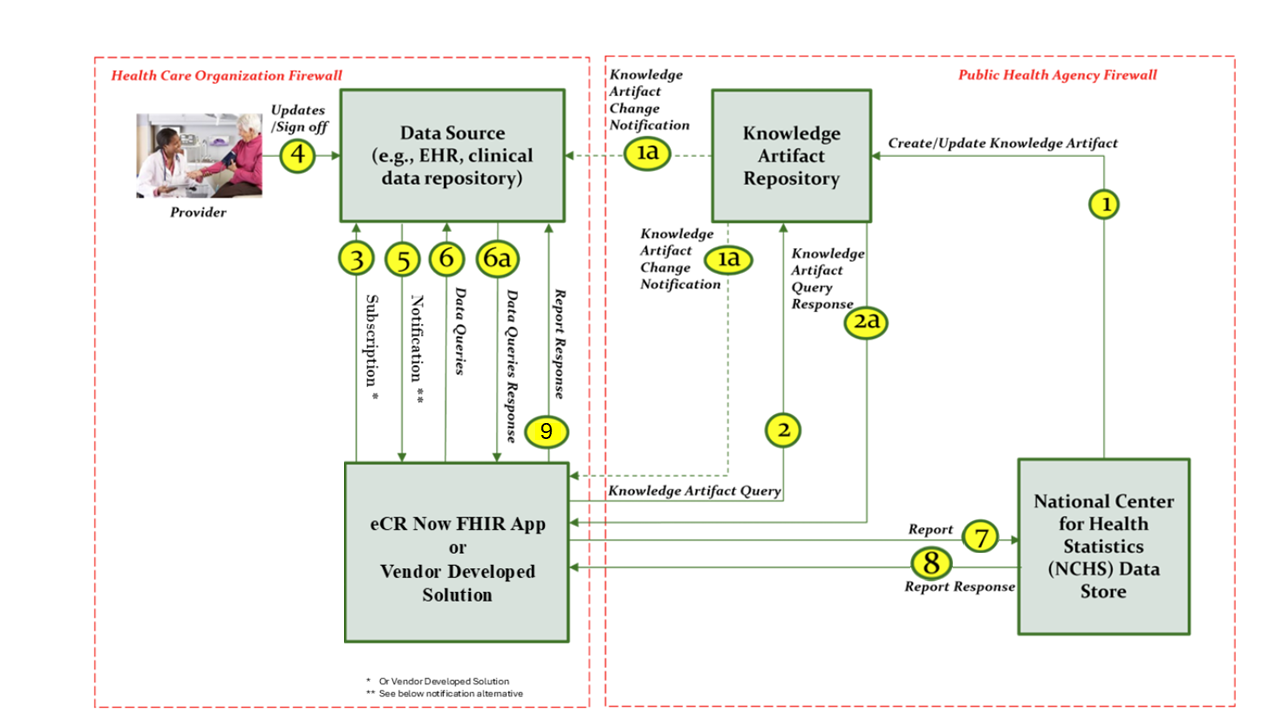
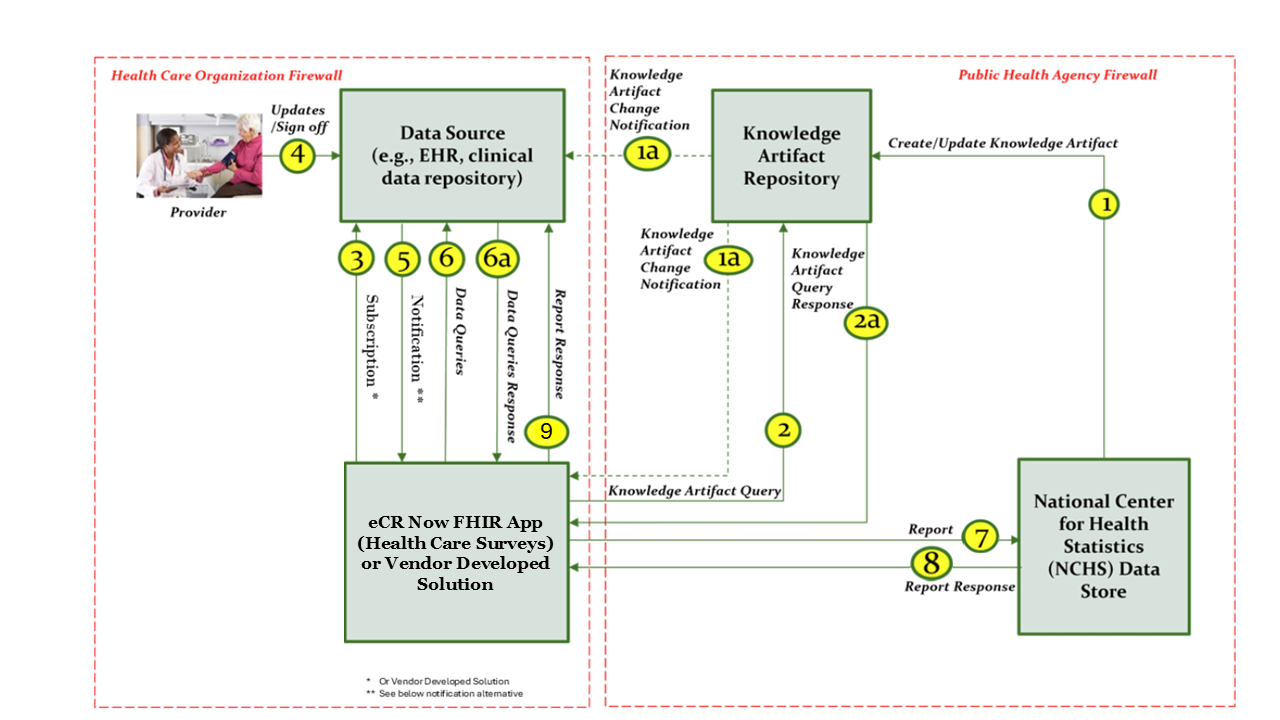
Replaced eCR Now FHIR App with  eCR Now FHIR App (Health Care Surveys)

Changed region(s): [[0.2812, 0.7028, 0.4375, 0.8556]]

diff --git a/input/pagecontent/usecases.md b/input/pagecontent/usecases.md
@@ -3,19 +3,21 @@ The section identifies the business needs including specific user stories outlin
 
 #### Business Need
 The purpose of the Health Care Surveys Content Implementation Guide (IG) is to identify the hospital (e.g., emergency department (ED), inpatient care) and ambulatory care data that will be extracted from Data Sources (e.g., Electronic Health Records (EHR), clinical data repository) via Fast Healthcare Interoperability Resources (FHIR®) Application Programming Interfaces (APIs) and sent to a system hosted at the federal level. This use case will help define how electronic data can be used in automated data collection, reducing burden for the healthcare provider and data source with the goal of increasing the submission of timely quality health care data to the National Center for Health Statistics (NCHS).
-In the past predominant ambulatory (manual medical record abstraction) and hospital (claims) data collection methods are burdensome for providers, lack clinical richness, and are inefficient for NCHS. The HL7 Clinical Document Architecture (CDA®) R2 Implementation Guide: National Health Care Surveys Release 1, Draft Standard for Trial Use (DSTU) Release 1.2 - US Realm, 2016, is available-as a standards-based as well as a Promoting Interoperability measure-data submission option for providers. This CDA IG has improved NCHS EHR data submissions, but some providers have found it burdensome and NCHS has identified some data quality issues in submissions by this method.
+In the past ambulatory (manual medical record abstraction) and hospital (claims) data collection methods have been burdensome for providers, lack in clinical richness, and are inefficient for NCHS. The HL7 Clinical Document Architecture (CDA®) R2 Implementation Guide: National Health Care Surveys Release 1, Draft Standard for Trial Use (DSTU) Release 1.2 - US Realm, 2016, and HL7® CDA® R2 Implementation Guide: National Health Care Surveys (NHCS), R1 STU Release 3.1 - US Realm are available-as a standards-based measure  as well as a Promoting Interoperability (PI) and Merit-Based Incentive Payment System (MIPS) measure for hospitals and providers.  (PI) and MIPS measure-data submission option for providers. These CDA IGs have improved NCHS EHR data submissions, but some providers have found it burdensome and NCHS has identified some data quality issues in submissions using the CDA standard.
 
-Utilizing this IG, which is tightly aligned with newly available standards such as FHIR R4 APIs and the United States Core Date for Interoperability (USCDI)/US Core Profiles, for electronic reporting will increase the response rate of sampled hospitals and ambulatory health care providers to the National Hospital Care Survey (NHCS) and the National Ambulatory Medical Care Survey (NAMCS) over other data collection approaches. This will also increase the volume, quality, completeness, and timeliness of the data submitted to the NHCS and NAMCS. This reporting approach via automated means (without provider involvement) will reduce the burden associated with survey participation and reduce costs associated with recruiting hospital and ambulatory health care providers.
+Utilizing this IG, which is tightly aligned with the United States Core Date for Interoperability (USCDI) V3.0/US Core Profiles V6.1.0 for electronic reporting will increase the response rate of sampled hospitals and ambulatory health care providers to the National Hospital Care Survey (NHCS) and the National Ambulatory Medical Care Survey (NAMCS) over other data collection approaches. This will also increase the volume, quality, completeness, and timeliness of the data submitted to the NHCS National Hospital Care Survey (NHCS) and the National Ambulatory Medical Care Survey (NAMCS). This reporting approach via automated means (without provider involvement) will reduce the burden associated with survey participation and reduce costs associated with recruiting hospital and ambulatory health care providers.
 
 
 #### Goals of the Use Case
+
+This use case builds on the work already done by the eCR Now FHIR app with the goal of automating reporting of health surveys data while reducing the burden on health care providers.  Providers can use the eCR Now FHIR App (Health Care Surveys) or develop their own vendor-developed solution to meet the requirements of this IG.  Providers already in production with the eCR program may be able to leverage some of the work done for the eCR Now use case. 
 
 The goals of the Health Care Survey submission use case include:
 * Increase the response rate of sampled hospitals and ambulatory health care providers to the NHCS and the NAMCS.
 * Increase the volume, quality, completeness, and timeliness of data submitted to the NHCS and NAMCS.
 * Reduce the burden, including cost, associated with survey participation for hospitals, ambulatory health care providers, and data source vendors.
 * Reduce NCHS’s costs associated with recruiting hospital and ambulatory health care providers, and the processing of NHCS and NAMCS data.
-* Develop a complete use case that can support the reporting of health care survey data from health care providers and systems to NCHS.
+* Develop a complete use case supported by the eCR Now FHIR app- Health Care Surveys to allow the reporting of health care survey data from health care providers and systems to NCHS. 
 
 
 ##### Scope of the Use Case
@@ -61,7 +63,7 @@ The following is a diagram of the workflow based on the above user story used fo
 
 **Background:** The National Hospital Care Survey (NHCS) is an electronic data collection, gathering Uniform Bill (UB) 04 administrative claims data or electronic data from sampled hospitals. NHCS is designed to provide reliable and timely nationally representative healthcare utilization data for hospital-based settings. NHCS collects all inpatient discharges, and ED encounters from sampled hospitals for a survey period of one year. NHCS’ sample is drawn from all non-federal US hospitals with a bed size > 6.
 
-**Workflow:** Upon completion of an inpatient or ED encounter, the physician or licensed clinician completes and closes the clinical encounter ("sign off"). This "sign off" triggers the eCR Now FHIR App or vendor developed solution to evaluate the completed encounter against the NHCS criteria. If the encounter meets the survey criteria, and after a lag period to allow for lab results to post when applicable, the application or vendor developed solution queries the Data Source for a set of FHIR resources representing patient-level and select provider-level data of the encounter. Once obtained and validated, these resources are transmitted to NCHS where they are received, acknowledged, validated, and loaded into the NCHS Data Store.
+**Workflow:** Upon completion of an inpatient or ED encounter, the physician or licensed clinician completes and closes the clinical encounter ("sign off"). This "sign off" triggers the eCR Now FHIR App (Health Care Surveys)  or vendor developed solution to evaluate the completed encounter against the NHCS criteria. If the encounter meets the survey criteria, and after a lag period to allow for lab results to post when applicable, the application or vendor developed solution queries the Data Source for a set of FHIR resources representing patient-level and select provider-level data of the encounter. Once obtained and validated, these resources are transmitted to NCHS where they are received, acknowledged, validated, and loaded into the NCHS Data Store.
 
 The following is a diagram of the workflow based on the above user story used for Health Care Surveys Reporting for the Hospital Setting:
 
@@ -77,7 +79,7 @@ The following is a diagram of the workflow based on the above user story used fo
 #### Health Care Surveys Actors and Definitions 
 
 * Data Source (e.g., EHR, clinical data repository)
-* eCR Now FHIR App or vendor developed solution
+* eCR Now FHIR App (Health Care Surveys) or vendor developed solution
 * NCHS Data Store acting as a Data Receiver with FHIR capabilities
 * Knowledge Artifact Repository
 
@@ -88,17 +90,17 @@ This section outlines the high-level interactions between the various Actors and
 
 The descriptions for each step in the above diagram include:
 * Step 1: The National Center for Health Statistics (NCHS) Data Store (e.g., Data Receiver) creates a Knowledge Artifact and makes it available via the Knowledge Artifact Repository.
-     * Step 1a: Knowledge Artifact Repositories which implement notifications, can optionally notify the subscribers (Data Source, eCR Now FHIR App*, Administrators) of changes in the Knowledge Artifacts.
-* Step 2: The eCR Now FHIR App* queries the Knowledge Artifact Repository to retrieve a Knowledge Artifact. 
-     * Step 2a: eCR Now FHIR App* receives the Knowledge Artifact as a response to the query in Step 2.
-* Step 3: The eCR Now FHIR App* processes the Knowledge Artifact and creates subscriptions in the Data Source’s (e.g., EHR) FHIR Server so that it can be notified when specific events occur in clinical workflows.
+     * Step 1a: Knowledge Artifact Repositories which implement notifications, can optionally notify the subscribers (Data Source, eCR Now FHIR App (Health Care Surveys)*, Administrators) of changes in the Knowledge Artifacts.
+* Step 2: The eCR Now FHIR App (Health Care Surveys)* queries the Knowledge Artifact Repository to retrieve a Knowledge Artifact. 
+     * Step 2a: eCR Now FHIR App (Health Care Surveys)* receives the Knowledge Artifact as a response to the query in Step 2.
+* Step 3: The eCR Now FHIR App (Health Care Surveys)* processes the Knowledge Artifact and creates subscriptions in the Data Source’s (e.g., EHR) FHIR Server so that it can be notified when specific events occur in clinical workflows.
 * Step 4: Providers as part of their clinical workflows update the data in the Data Source’s patient chart.
-* Step 5: The Data Source notifies the eCR Now FHIR App* based on subscriptions that have been created in Step 3.
-* Step 6: The eCR Now FHIR App* queries the Data Source for patient’s data.
-     * Step 6a: eCR Now FHIR App* receives the response from the Data Source with the patient’s data.
-* Step 7: The eCR Now FHIR App* submits the created report to the NCHS Data Store.
-* Step 8: The NCHS Data Store submits a response back to the eCR Now FHIR App* based on the submitted report. The Response transaction can be synchronous or asynchronous (after a period of time).
-* Step 9: The eCR Now FHIR App* writes back the response from the NCHS Data Store to the Data Source as appropriate. 
+* Step 5: The Data Source notifies the eCR Now FHIR App (Health Care Surveys)* based on subscriptions that have been created in Step 3.
+* Step 6: The eCR Now FHIR App (Health Care Surveys)* queries the Data Source for patient’s data.
+     * Step 6a: eCR Now FHIR App (Health Care Surveys)* receives the response from the Data Source with the patient’s data.
+* Step 7: The eCR Now FHIR App (Health Care Surveys)* submits the created report to the NCHS Data Store.
+* Step 8: The NCHS Data Store submits a response back to the eCR Now FHIR App (Health Care Surveys)* based on the submitted report. The Response transaction can be synchronous or asynchronous (after a period of time).
+* Step 9: The eCR Now FHIR App (Health Care Surveys)* writes back the response from the NCHS Data Store to the Data Source as appropriate. 
 
 * *or vendor developed solution
 

diff --git a/input/pagecontent/spec.md b/input/pagecontent/spec.md
@@ -1,4 +1,4 @@
-This section defines the specific requirements for systems wishing to conform to actors specified in this Health Care Surveys Content Implementation Guide (IG).  The specification focuses on using the Health Data Exchange App (HDEA), Making Electronic Data More available for Research and Public Health's (MedMorph) backend services app, to report the health care survey data to National Center for Health Statistics (NCHS) data stores.
+This section defines the specific requirements for systems wishing to conform to actors specified in this Health Care Surveys Content Implementation Guide (IG).  The specification focuses on using the Health Data Exchange App (HDEA) to report the health care survey data to National Center for Health Statistics (NCHS) data stores.
 
 ### Context
 
